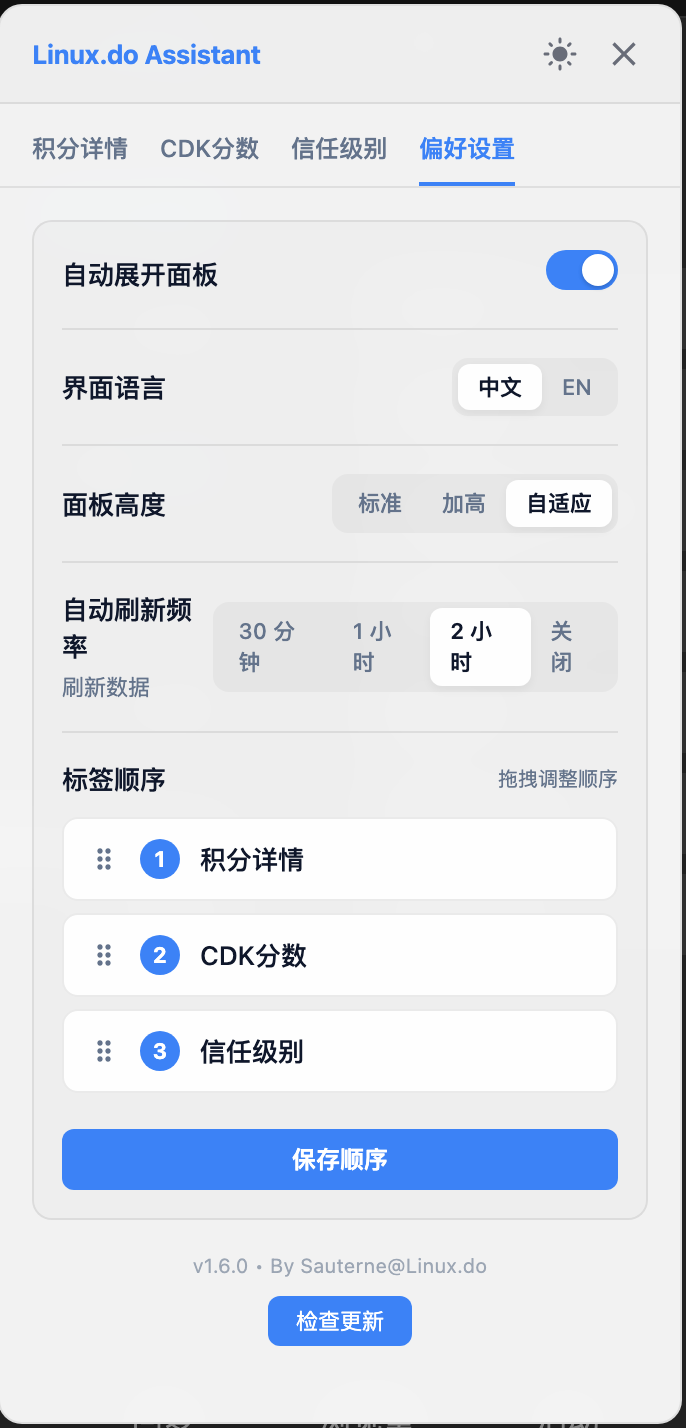
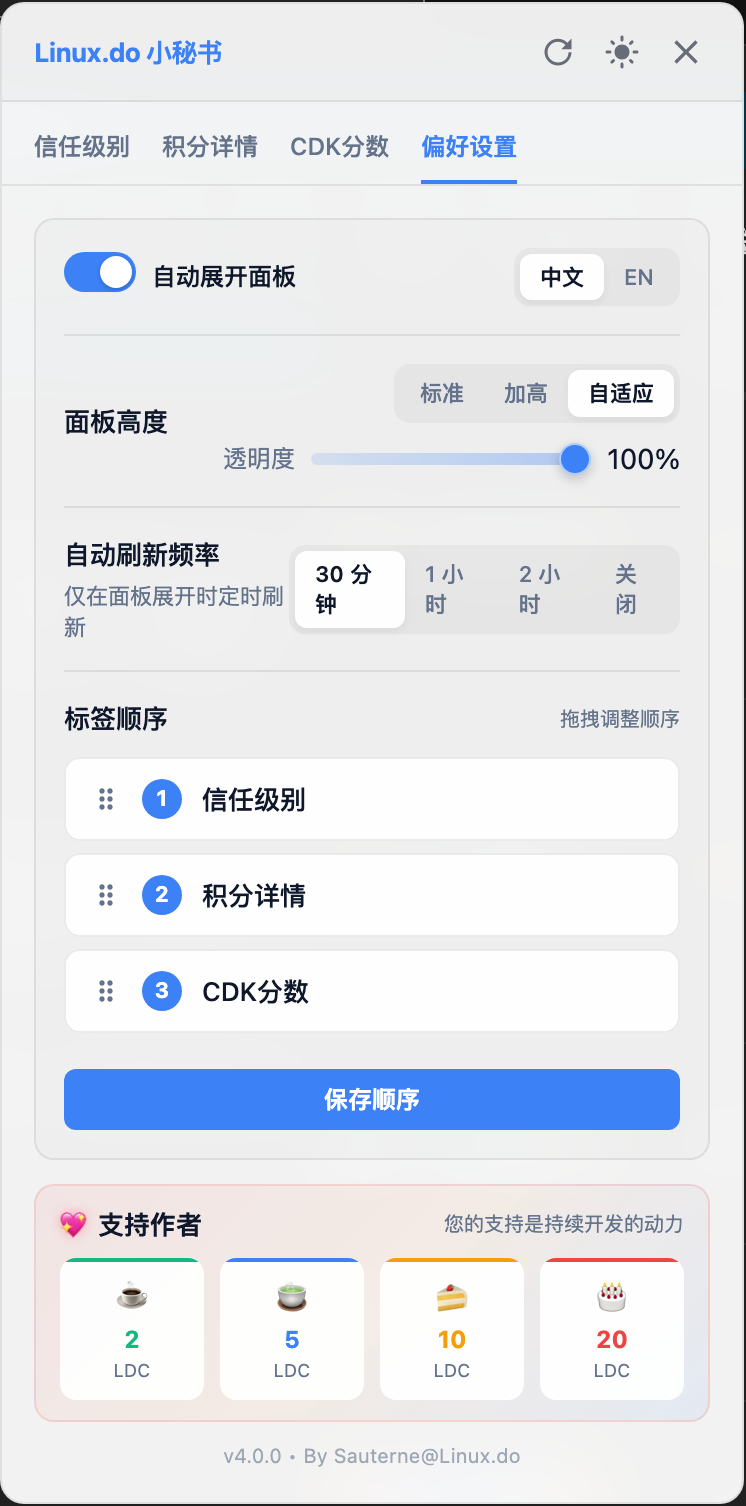
docs: 更新截图并添加全部达标庆祝效果展示

diff --git a/README.md b/README.md
@@ -50,6 +50,14 @@
 |:---:|:---:|:---:|:---:|
 | ![信任级别](pics/p1.png) | ![积分详情](pics/p2.png) | ![CDK分数](pics/p4.png) | ![偏好设置](pics/p3.png) |
 
+### 全部达标效果
+
+<p align="center">
+  <img src="pics/p1-1.png" alt="全部达标庆祝" width="280">
+</p>
+
+> 当信任级别所有指标都达标时，会显示庆祝界面，点击「详情」可查看具体指标
+
 > 注：CDK 社区分数功能需要先访问 [cdk.linux.do](https://cdk.linux.do/dashboard) 完成 OAuth 授权
 
 ## 📦 安装方法
